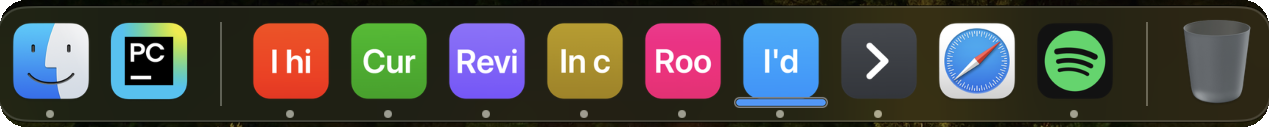
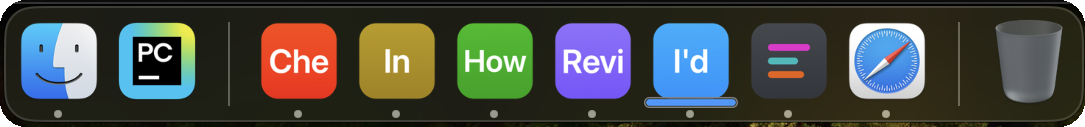
The Dock still shows the picker's tile and today's sessions
The hero's first frame and the sessions doc image were captured before
the picker's three-row tile and the shorter leading letters, so they
showed a chevron tile and "In c". Recaptured with five sessions of
well-spaced colors, the working bar under one, and the picker's tile;
the doc image keeps the hero's width ratio.

Claude-Session: https://claude.ai/code/session_01KUW86F8UVsPXosxK4WBBdX

diff --git a/docs/sessions.md b/docs/sessions.md
@@ -12,7 +12,7 @@ Every session is a whole OS window; there are no tabs.
 </p>
 
 <p align="center">
-<img src="assets/dock-tiles.png" width="50%" alt="your sessions on a Mac: one Dock tile each, among the other apps">
+<img src="assets/dock-tiles.png" width="42%" alt="your sessions on a Mac: one Dock tile each, among the other apps">
 <br><sub>On a Mac: one Dock tile per session, among the other apps.</sub>
 </p>
 
